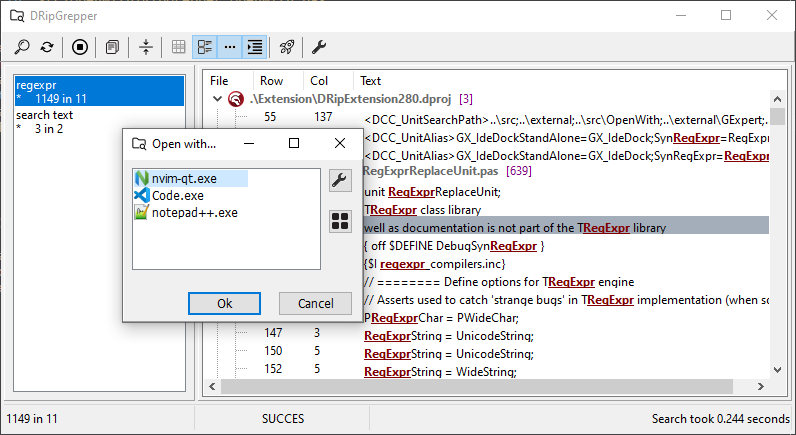
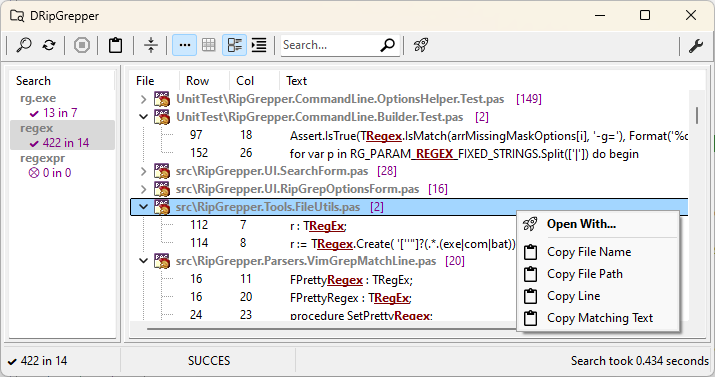
update Readme.md, new screenshots v3.1.0-beta

diff --git a/README.md b/README.md
@@ -1,35 +1,33 @@
-## DRipGrepper
+## :droplet: DRipGrepper
 Yet another [ripgrep](https://github.com/BurntSushi/ripgrep) GUI, written in Delphi Pascal with the goal to integrate in the Delphi IDE as an extension.
 
 ![Screenshot](./screenshots/DripGepper_Form.png)
 
 ## Features and Todos
+Marked with checkmark if ready, else planned.
 
-### Main Window
-- [x] search text, parse `rg` output
+- [x] searches text, parses `rg` output
   - [x] --vimgrep parser
-  - [x] error parser: if a line couldn't be parsed, then it is put in the first column
+  - [x] error parser: if a line couldn't be parsed, then it is put in the first column (it maybe encoding problem)
   - [x] --pretty parser matching lines with colorized match position
-  - [x] --vimgrep --context NUM (or -A=NUM -B=NUM) parser
+  - [x] --context NUM (or -A=NUM -B=NUM) parser
   - [ ] --invert-match parser
   - [ ] --stats parser eg. msgbox on end with search statistics
-  - [x] no match parser, if nothing found (0 in 0)
 - [x] toolbar buttons to 
-  - [x] expand / collapse tree
+  - [x] expand/collapse tree
   - [x] show/hide icons
   - [x] full/relative path
   - [x] alternate row colors
 - [x] copy `rg` command line into clipboard
-- [x] sorting by path 
-- [x] sorting by row
-- [x] sorting by col
-- [x] sorting by tex
-- [x] grouping by path
-- [ ] sorting groups by row / col / text
+- [ ] sorting result groups by row / col / text
+- [ ] filtering results
 - [ ] file handling (eg. open in explorer, copy, rename, delete)
 - [ ] replace text in files --replace=TEXT
+- [x] unicode support
 
 ### :mag: Search Dialog
+![Screenshot](./screenshots/SearchForm.png)
+
 - [x] helps parametrizing `rg.exe` in search dialog
   - [x] expert mode set in `DripGrepper.ini` makes rg options visible
     - [x] option helper form 
@@ -40,18 +38,19 @@ Yet another [ripgrep](https://github.com/BurntSushi/ripgrep) GUI, written in Del
     - [x] --fixed-strings
   - [x] --glob filter settings can be set in separate editbox
   - [x] --hidden, --no-ignore can be set
-  - [x] --pretty can be set
+  - [x] --pretty can be set (not supported by rg.exe in vscode)
   - [x] --context=NUM can be set
-  
 
 ### :rocket: Open with...
+![Screenshot](./screenshots/OpenWith.png)
+
 - [x] show configured editors to open matching file on matching position
-   - [ ] on double click ?
+   - [ ] on double click
    - [x] with menu / toolbar
-- [ ] separate editor for distinct extensions
+- [ ] separate editors for distinct extensions
 
 ### Configure Open with...
-![Screenshot](./screenshots/04-02-2024_11-04-47.png)
+![Screenshot](./screenshots/ConfigureOpenWith.png)
 
 ### Configuration
 Configuration is stored in ini file (`DripGrepper.ini` for standalone and `DripExtension*.ini` for the extension)
@@ -70,6 +69,8 @@ Configuration is stored in ini file (`DripGrepper.ini` for standalone and `DripE
 - [ ] configuration dialog
 
 ### Delphi Extension 
+![Screenshot](./screenshots/DripExtension.png)
+
   - [x] dockable window
   - [x] high DPI Scaling 
   - [x] menu item in Tools (shortcut configurable in `DripExtension*.ini`)
@@ -77,6 +78,9 @@ Configuration is stored in ini file (`DripGrepper.ini` for standalone and `DripE
   - [x] click on matching file, opens file in the editor on position 
      - [ ] expand collapsed code in {$REGION}-s
   - [x] popup menu
+    - [x] delete history entries
+    - [x] copy path etc.
+    - [x] insert file as `uses` to interface/implementation section
   - [x] save window position
      - [x] save in layout
      - [x] load saved layout
